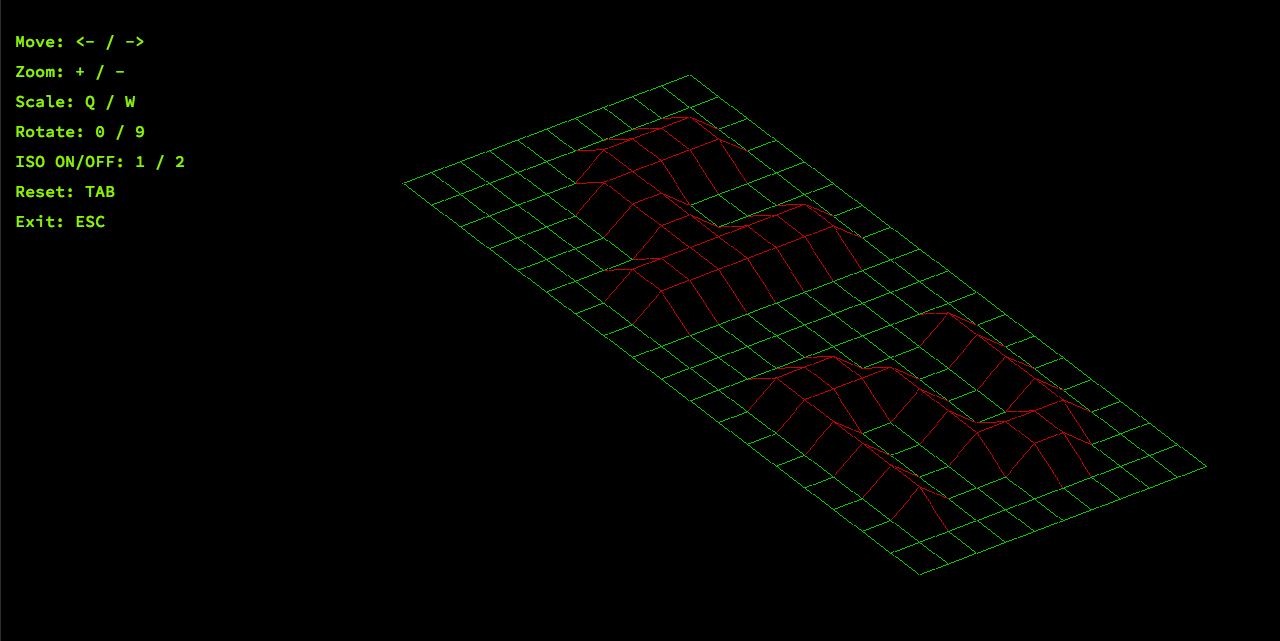
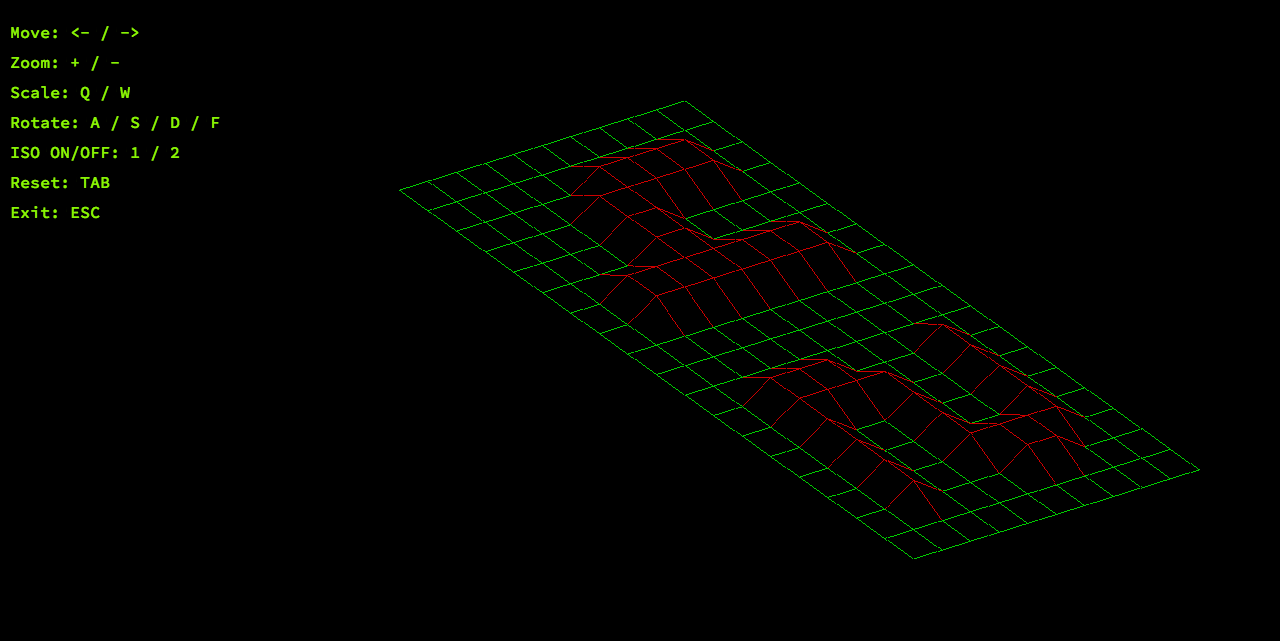
small mod

diff --git a/menu.c b/menu.c
@@ -42,7 +42,7 @@ void	print_menu(t_fdf *data)
 	mlx_string_put(mlx, win, 15, y += 30, 0x88F403, "Move: <- / ->");
 	mlx_string_put(mlx, win, 15, y += 30, 0x88F403, "Zoom: + / -");
 	mlx_string_put(mlx, win, 15, y += 30, 0x88F403, "Scale: Q / W");
-	mlx_string_put(mlx, win, 15, y += 30, 0x88F403, "Rotate: 0 / 9");
+	mlx_string_put(mlx, win, 15, y += 30, 0x88F403, "Rotate: A / S / D / F");
 	mlx_string_put(mlx, win, 15, y += 30, 0x88F403, "ISO ON/OFF: 1 / 2");
 	mlx_string_put(mlx, win, 15, y += 30, 0x88F403, "Reset: TAB");
 	mlx_string_put(mlx, win, 15, y += 30, 0x88F403, "Exit: ESC");
